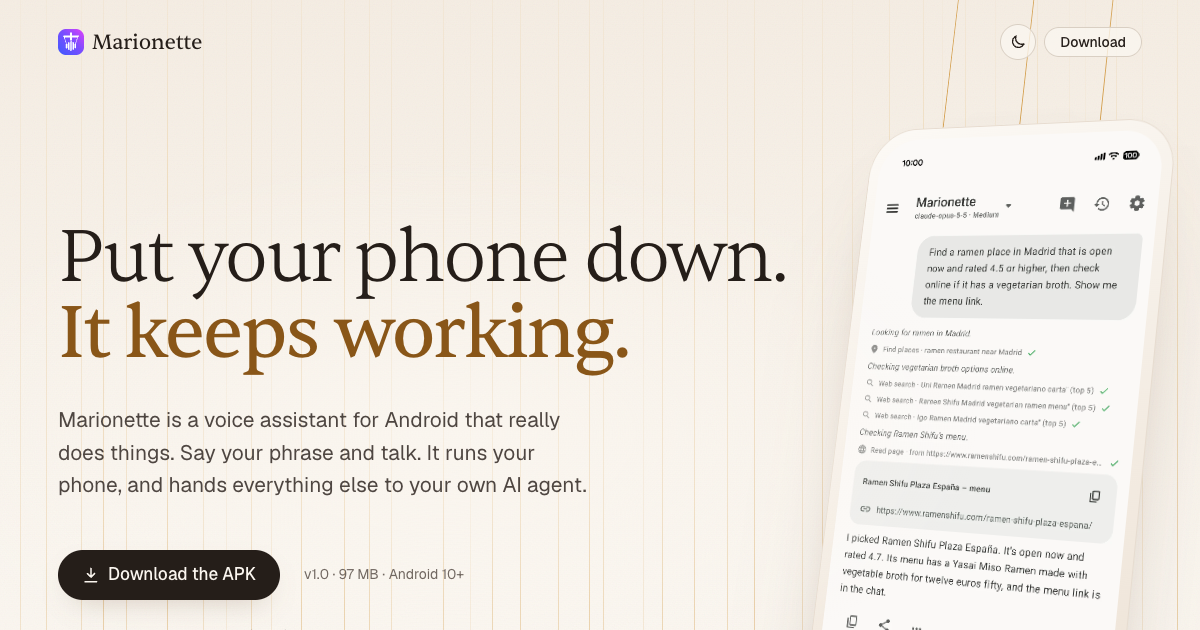
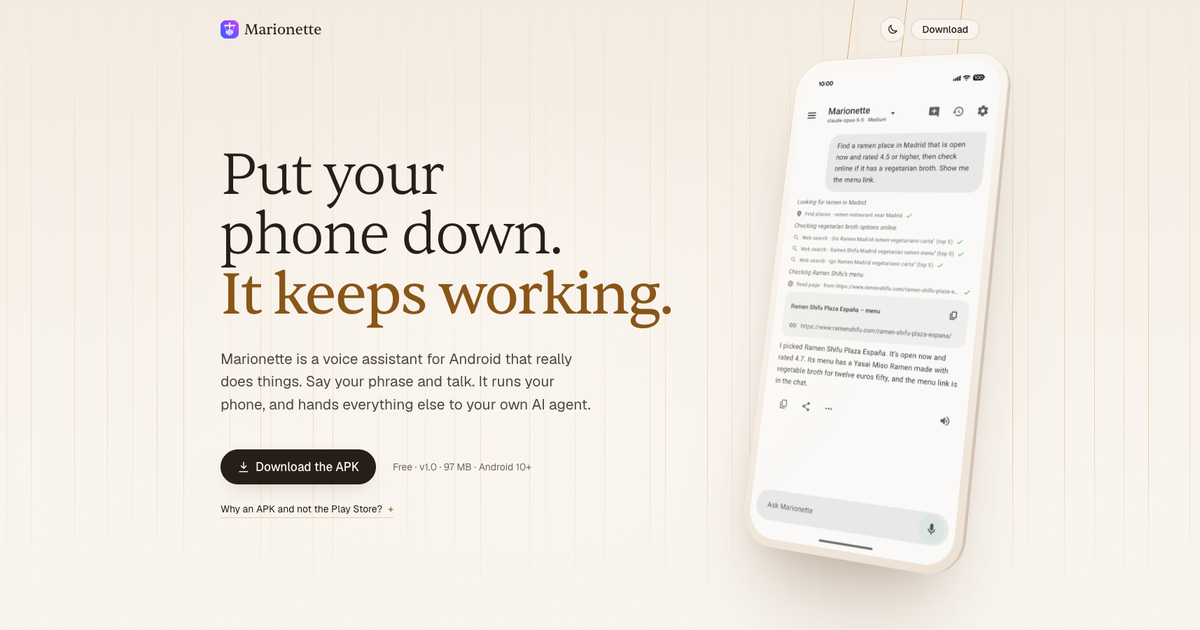
feat(site): animate theme swap and page load, fit the phone screenshot
Circular reveal on theme swap, staggered entrance, 3D phone with exact screen ratio, centered in a taller hero. Footer and trust copy reference the Unlicense. New OG image.

diff --git a/site/style.css b/site/style.css
@@ -8,7 +8,7 @@
 
 * { box-sizing: border-box; margin: 0; padding: 0; }
 html, body { overflow-x: clip; }
-html { scroll-behavior: smooth; }
+html { scroll-behavior: smooth; interpolate-size: allow-keywords; }
 body {
   background: var(--color-paper);
   color: var(--color-ink);
@@ -75,7 +75,7 @@ section, footer { scroll-margin-top: var(--space-lg); }
 .hero {
   position: relative; overflow: hidden; isolation: isolate;
   background: linear-gradient(180deg, var(--color-paper-2), var(--color-paper) 70%);
-  min-height: 820px;
+  min-height: 900px;
   display: flex; align-items: center;
   padding: var(--space-4xl) 0 var(--space-3xl);
 }
@@ -102,19 +102,25 @@ section, footer { scroll-margin-top: var(--space-lg); }
 
 .stage {
   position: absolute; z-index: 1; top: 50%; right: max(var(--page-gutter), calc(50% - 560px));
-  width: 340px; height: 690px; margin-top: -300px;
+  width: 340px; margin-top: -385px;
   perspective: 1500px; pointer-events: none;
 }
-.puppet { position: relative; width: 100%; height: 100%; transform-style: preserve-3d; transform: rotateX(10deg) rotateY(-24deg) rotateZ(7deg); will-change: transform; }
+.puppet { position: relative; width: 100%; transform-style: preserve-3d; transform: rotateX(10deg) rotateY(-24deg) rotateZ(7deg); will-change: transform; }
 .puppet__strings { position: absolute; left: 0; right: 0; bottom: 100%; height: 1000px; }
 .puppet__strings i { position: absolute; bottom: 0; width: var(--rule-hair); height: 100%; background: linear-gradient(180deg, transparent, var(--color-accent)); }
 .device {
-  position: absolute; inset: 0; padding: var(--space-xs);
+  position: relative; padding: var(--space-xs); transform-style: preserve-3d;
   border-radius: var(--radius-device);
   background: linear-gradient(150deg, var(--color-device), var(--color-paper-3));
   box-shadow: 0 90px 120px -50px var(--color-shadow-deep), 0 30px 60px -30px var(--color-shadow), inset 0 0 0 var(--rule-hair) var(--color-device-edge);
 }
-.device__screen { display: block; height: 100%; border-radius: var(--radius-screen); overflow: hidden; background: var(--color-paper); }
+.device::before, .device::after {
+  content: ""; position: absolute; inset: 0; border-radius: inherit; pointer-events: none;
+  background: var(--color-device-side); box-shadow: inset 0 0 0 var(--rule-hair) var(--color-device-edge);
+}
+.device::before { transform: translateZ(-6px); }
+.device::after { transform: translateZ(-12px); }
+.device__screen { display: block; position: relative; aspect-ratio: 1080 / 2410; border-radius: var(--radius-screen); overflow: hidden; background: var(--color-paper); transform: translateZ(0.5px); }
 .device__screen img { display: block; width: 100%; height: 100%; object-fit: cover; object-position: top center; }
 .shot-dark { display: none; }
 
@@ -137,16 +143,38 @@ section, footer { scroll-margin-top: var(--space-lg); }
   transition: border-color var(--dur-short) var(--ease-out);
 }
 .why summary::-webkit-details-marker { display: none; }
+.why::details-content { block-size: 0; overflow: hidden; transition: block-size 360ms var(--ease-out), content-visibility 360ms allow-discrete; }
+.why[open]::details-content { block-size: auto; }
 .why summary::after { content: "+"; font-family: var(--font-outlier); color: var(--color-accent-deep); transition: transform var(--dur-short) var(--ease-out); }
 .why[open] summary::after { transform: rotate(45deg); }
 .why summary:hover { border-color: var(--color-accent-deep); }
 .why p { margin-top: var(--space-xs); padding: var(--space-sm) var(--space-md); border-radius: var(--space-sm); background: var(--color-paper-veil); box-shadow: inset 0 0 0 var(--rule-hair) var(--color-rule-2); line-height: 1.55; }
 
-.enter { opacity: 0; transform: translateY(14px); animation: enter var(--dur-long) var(--ease-out) forwards; }
-.enter:nth-child(2) { animation-delay: 120ms; }
-.enter:nth-child(3) { animation-delay: 240ms; }
-.enter:nth-child(4) { animation-delay: 360ms; }
-@keyframes enter { to { opacity: 1; transform: none; } }
+.hero h1 .line { display: block; }
+.enter { animation: rise 760ms var(--ease-out) var(--d, 0ms) both; }
+.nav { animation: drop 600ms var(--ease-out) both; }
+.stage { animation: float-in 1100ms var(--ease-out) 120ms both; }
+.puppet__strings { animation: fade-in 900ms var(--ease-out) 500ms both; }
+.hero .strands { animation: fade-in 1600ms var(--ease-out) both; }
+@keyframes rise { from { opacity: 0; transform: translateY(18px) scale(0.985); filter: blur(6px); } }
+@keyframes drop { from { opacity: 0; transform: translateY(-12px); } }
+@keyframes float-in { from { opacity: 0; transform: translateY(48px) scale(0.94); } }
+@keyframes fade-in { from { opacity: 0; } }
+
+.js .diagram > * { opacity: 0; }
+.js .diagram.on > * { opacity: 1; animation: rise 700ms var(--ease-out) both; }
+.js .diagram.on > :nth-child(2) { animation: fade-in 500ms var(--ease-out) 160ms both; }
+.js .diagram.on > :nth-child(3) { animation-delay: 120ms; }
+.js .diagram.on > :nth-child(4) { animation: fade-in 500ms var(--ease-out) 280ms both; }
+.js .diagram.on > :nth-child(5) { animation-delay: 240ms; }
+
+::view-transition-old(root), ::view-transition-new(root) { animation: none; mix-blend-mode: normal; }
+::view-transition-new(root) { z-index: 2; }
+.theme-fading, .theme-fading *, .theme-fading *::before, .theme-fading *::after {
+  transition: background-color 450ms var(--ease-in-out), color 450ms var(--ease-in-out), border-color 450ms var(--ease-in-out), box-shadow 450ms var(--ease-in-out) !important;
+}
+.theme-toggle svg { animation: spin-in 520ms var(--ease-out) both; }
+@keyframes spin-in { from { opacity: 0; transform: rotate(-90deg) scale(0.5); } }
 
 /* Map */
 .map { padding: var(--space-3xl) 0 var(--space-2xl); }
@@ -273,14 +301,15 @@ section, footer { scroll-margin-top: var(--space-lg); }
 :root[data-theme="dark"] .shot-dark { display: block; }
 
 @media (max-width: 1180px) {
-  .stage { right: var(--page-gutter); width: 300px; height: 610px; margin-top: -270px; }
+  .hero { min-height: 820px; }
+  .stage { right: var(--page-gutter); width: 300px; margin-top: -317px; }
   .hero__copy { max-width: calc(100% - 300px); }
 }
 @media (max-width: 960px) {
   .hero { flex-direction: column; align-items: stretch; min-height: 0; padding: 8rem 0 var(--space-2xl); }
   .hero > .page { order: 1; }
   .hero__copy { max-width: 640px; }
-  .stage { order: 2; position: relative; top: auto; right: auto; margin: var(--space-2xl) auto 0; width: 280px; height: 570px; }
+  .stage { order: 2; position: relative; top: auto; right: auto; margin: var(--space-2xl) auto 0; width: 280px; }
   .puppet__strings { height: 1400px; }
 }
 @media (max-width: 900px) {
@@ -300,11 +329,14 @@ section, footer { scroll-margin-top: var(--space-lg); }
   .trust { margin-top: var(--space-2xl); }
   .close { padding-top: var(--space-3xl); }
   .yours__grid > div { padding: var(--space-md); }
-  .stage { width: 240px; height: 490px; }
+  .stage { width: 250px; }
+  .device { padding: 9px; }
+  .device__screen { border-radius: 32px; }
   .node { padding: var(--space-md); }
   .hero__cta { gap: var(--space-sm); }
 }
 @media (prefers-reduced-motion: reduce) {
   .strand, .strand::after, .wire::after { animation: none; }
-  .enter { animation: enter 150ms linear forwards; transform: none; }
+  .enter, .nav, .stage, .puppet__strings, .hero .strands, .theme-toggle svg, .js .diagram.on > * { animation: fade-in 150ms linear both; }
+  .why::details-content { transition: none; }
 }

diff --git a/site/index.html b/site/index.html
@@ -25,6 +25,7 @@
   try { theme = localStorage.getItem("theme"); } catch (e) {}
   if (theme !== "light" && theme !== "dark") theme = matchMedia("(prefers-color-scheme: dark)").matches ? "dark" : "light";
   document.documentElement.dataset.theme = theme;
+  document.documentElement.classList.add("js");
 })();
 </script>
 <link rel="preconnect" href="https://fonts.googleapis.com">
@@ -66,16 +67,16 @@
 
     <div class="page">
       <div class="hero__copy">
-        <h1 class="enter">Put your phone down.<br><b>It keeps working.</b></h1>
-        <p class="hero__lede enter">Marionette is a voice assistant for Android that really does things. Say your phrase and talk. It runs your phone, and hands everything else to your own AI agent.</p>
-        <div class="hero__cta enter">
+        <h1><span class="line enter" style="--d: 60ms">Put your phone down.</span> <b class="line enter" style="--d: 150ms">It keeps working.</b></h1>
+        <p class="hero__lede enter" style="--d: 240ms">Marionette is a voice assistant for Android that really does things. Say your phrase and talk. It runs your phone, and hands everything else to your own AI agent.</p>
+        <div class="hero__cta enter" style="--d: 320ms">
           <a class="btn btn-fill" href="https://github.com/zlotny/marionette/releases/latest/download/marionette.apk">
             <svg viewBox="0 0 24 24" fill="none" stroke="currentColor" stroke-width="2" stroke-linecap="round" stroke-linejoin="round"><path d="M12 3v12m0 0-5-5m5 5 5-5M4 21h16"/></svg>
             Download the APK
           </a>
-          <span class="hero__note">v1.0 · 97 MB · Android 10+</span>
+          <span class="hero__note">Free · v1.0 · 97 MB · Android 10+</span>
         </div>
-        <details class="why enter">
+        <details class="why enter" style="--d: 390ms">
           <summary>Why an APK and not the Play Store?</summary>
           <p>To act for you, Marionette needs access that Google Play limits: sending text messages, seeing every app you have installed, operating other apps through accessibility, and using your location in the background. A store version would lose those abilities. The APK keeps all of them, and you still choose which ones to switch on.</p>
         </details>
@@ -183,7 +184,7 @@
         <h3>Yours, and only yours.</h3>
         <div>
           <p>Marionette talks directly to the model you choose. There is no middleman and no subscription. Your keys stay encrypted on your phone.</p>
-          <p>Every line of code is open to read.</p>
+          <p>The code is public domain under the <a class="textlink" href="https://github.com/zlotny/marionette/blob/main/LICENSE">Unlicense</a>. Read it, fork it, ship it.</p>
           <p class="providers">Works with OpenClaw, Anthropic, OpenAI, Google Gemini, OpenRouter, and any OpenAI-compatible API.</p>
         </div>
       </div>
@@ -203,7 +204,7 @@
       <a class="btn btn-line" href="https://github.com/zlotny/marionette">Source on GitHub</a>
     </div>
     <div class="close__foot">
-      <span>Marionette 1.0.0</span>
+      <span>Marionette 1.0.0 · Public domain</span>
       <nav class="close__links" aria-label="Project">
         <a class="textlink" href="https://github.com/zlotny/marionette/releases">Releases</a>
         <a class="textlink" href="https://github.com/zlotny/marionette">Source</a>

diff --git a/site/main.js b/site/main.js
@@ -13,12 +13,32 @@
     themeColor.content = theme === "dark" ? "#0b0c0e" : "#faf6f0";
   };
   apply(root.dataset.theme || (system.matches ? "dark" : "light"));
+  const still = () => matchMedia("(prefers-reduced-motion: reduce)").matches;
+  const swap = theme => {
+    if (still()) return apply(theme);
+    if (!document.startViewTransition) {
+      root.classList.add("theme-fading");
+      apply(theme);
+      setTimeout(() => root.classList.remove("theme-fading"), 500);
+      return;
+    }
+    const box = toggle.getBoundingClientRect();
+    const x = box.left + box.width / 2;
+    const y = box.top + box.height / 2;
+    const r = Math.hypot(Math.max(x, innerWidth - x), Math.max(y, innerHeight - y));
+    document.startViewTransition(() => apply(theme)).ready.then(() => {
+      root.animate(
+        { clipPath: [`circle(0px at ${x}px ${y}px)`, `circle(${r}px at ${x}px ${y}px)`] },
+        { duration: 700, easing: "cubic-bezier(0.65, 0, 0.35, 1)", pseudoElement: "::view-transition-new(root)" }
+      );
+    });
+  };
   toggle.addEventListener("click", () => {
     const next = root.dataset.theme === "dark" ? "light" : "dark";
     store(next === (system.matches ? "dark" : "light") ? null : next);
-    apply(next);
+    swap(next);
   });
-  system.addEventListener("change", e => { if (!stored()) apply(e.matches ? "dark" : "light"); });
+  system.addEventListener("change", e => { if (!stored()) swap(e.matches ? "dark" : "light"); });
 })();
 
 (() => {
@@ -38,6 +58,16 @@
     }
   };
   document.querySelectorAll(".strands").forEach((host, i) => fill(host, (narrow ? 16 : 40) >> i));
+
+  const diagram = document.querySelector(".diagram");
+  if ("IntersectionObserver" in window) {
+    const io = new IntersectionObserver(entries => {
+      if (entries.some(e => e.isIntersecting)) { diagram.classList.add("on"); io.disconnect(); }
+    }, { threshold: 0.2 });
+    io.observe(diagram);
+  } else {
+    diagram.classList.add("on");
+  }
 
   if (still) return;
   const puppet = document.getElementById("puppet");

diff --git a/site/tokens.css b/site/tokens.css
@@ -23,6 +23,7 @@
   --color-shadow-deep:  oklch(40% 0.060 60 / 0.30);
   --color-device:       oklch(98.5% 0.006 80);
   --color-device-edge:  oklch(90% 0.020 72);
+  --color-device-side:  oklch(83% 0.026 70);
 
   --font-display: "Sentient", "Iowan Old Style", ui-serif, serif;
   --font-body:    "Geist", ui-sans-serif, sans-serif;
@@ -88,6 +89,7 @@
   --color-shadow-deep:  oklch(3% 0.004 260 / 0.75);
   --color-device:       oklch(18% 0.005 260);
   --color-device-edge:  oklch(32% 0.010 260);
+  --color-device-side:  oklch(9% 0.004 260);
   --color-scanline:     oklch(4% 0.004 260 / 0.22);
   --color-text-glow:    oklch(80% 0.160 75 / 0.32);
 
